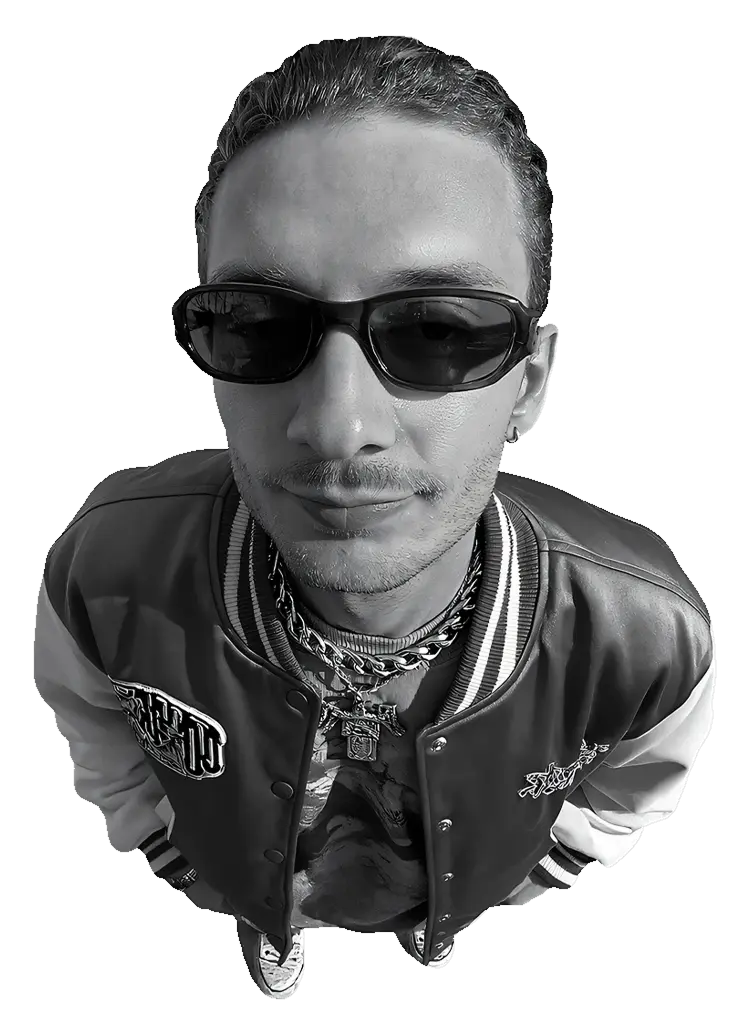
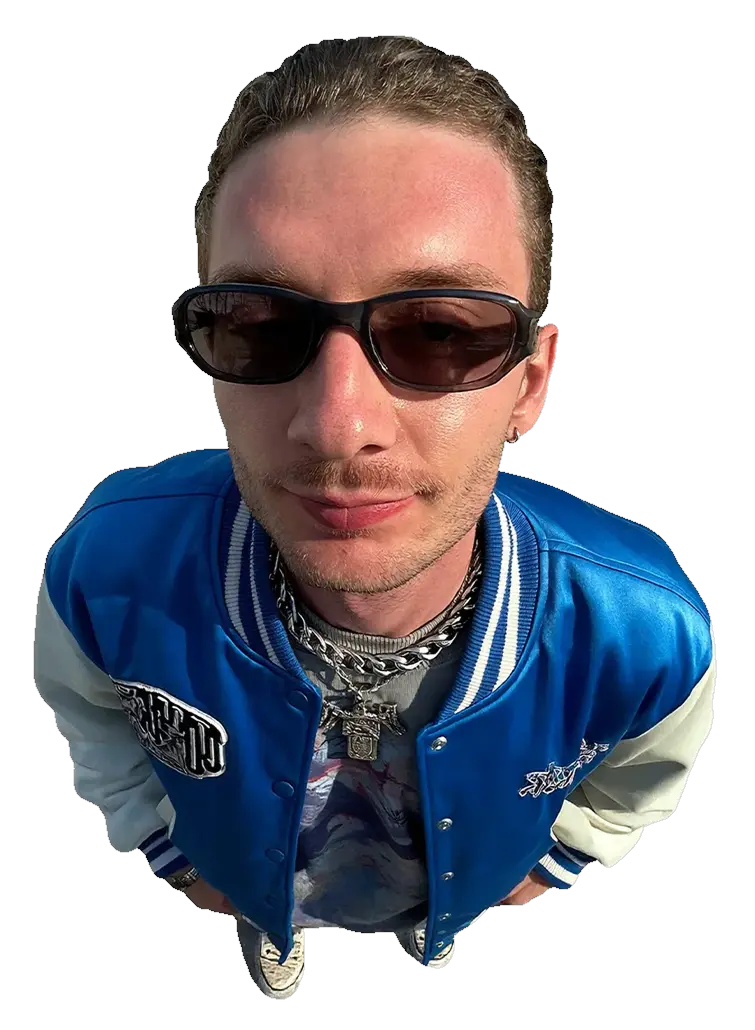
Refactor `index.html`: add grayscale effect to `hero-image` for improved visual styling.

diff --git a/src/index.html b/src/index.html
@@ -82,7 +82,7 @@
       <div class="relative isolate flex min-h-dvh w-full overflow-x-hidden">
         <img
           src="assets/soma-lancet.webp"
-          class="hero-image lg:top-50% absolute right-0 left-0 z-2 h-dvh w-auto justify-self-center object-cover lg:right-30 lg:z-3 lg:h-9/10 lg:self-center lg:justify-self-end"
+          class="hero-image lg:top-50% absolute right-0 left-0 z-2 h-dvh w-auto justify-self-center object-cover grayscale lg:right-30 lg:z-3 lg:h-9/10 lg:self-center lg:justify-self-end"
           alt="hero"
           fetchpriority="high"
           decoding="async"